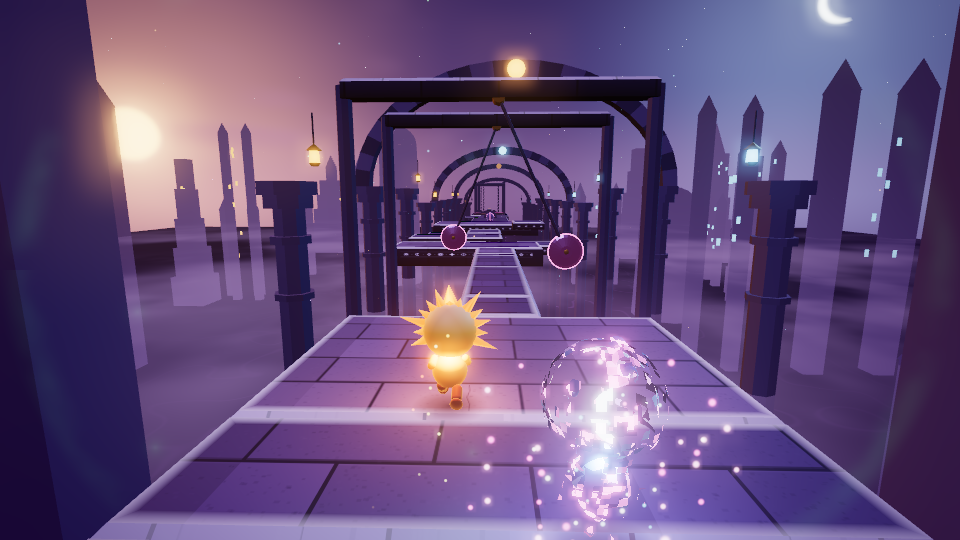
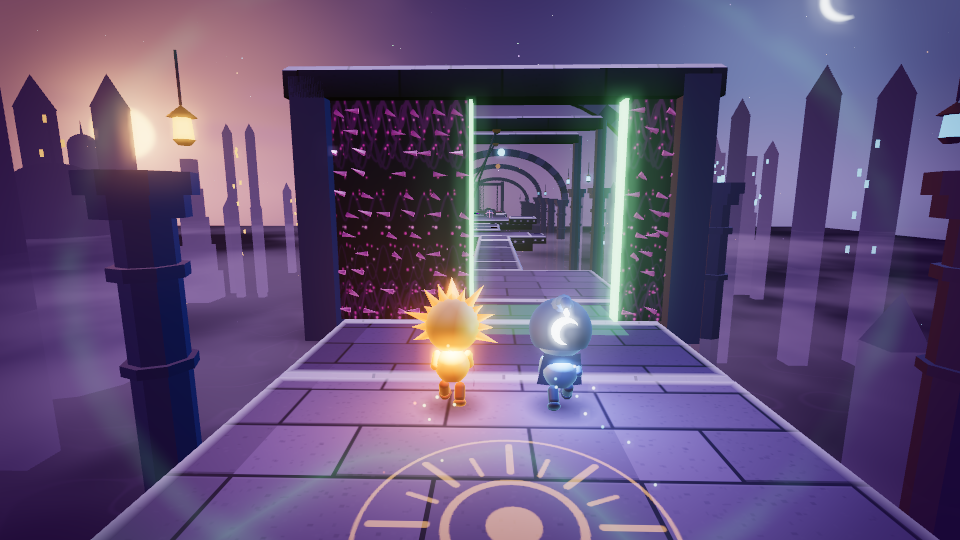
Runner 3D: CONTRACT notes firstFrom and the mantle; curtain screenshots shot before the players pass it

diff --git a/tools/r3d-shots.js b/tools/r3d-shots.js
@@ -49,7 +49,7 @@ const SHOTS = [
 ];
 // two shots per section kind: its easy intro and a hard instance past z 900 (the demo starts on its run-up)
 const SEC_KINDS = ['gaps', 'steps', 'thorns', 'pools', 'tilt', 'stones', 'crumble', 'sweeper', 'eclipse', 'beams', 'pendulum', 'carousel', 'gate', 'orbs'];
-for (const k of SEC_KINDS) SHOTS.push(['kind-' + k, `seed=7&kind=${k}`, 70], ['hard-' + k, `seed=7&kind=${k}&after=900`, 70]);
+for (const k of SEC_KINDS) { const n = k === 'gate' ? 35 : 70; SHOTS.push(['kind-' + k, `seed=7&kind=${k}`, n], ['hard-' + k, `seed=7&kind=${k}&after=900`, n]); }   // the curtain hides once passed: shoot it earlier
 const want = process.argv.slice(2);
 const list = want.length ? SHOTS.filter(s => want.some(w => s[0].includes(w))) : SHOTS;
 const extraKinds = (process.env.KINDS || '').split(',').filter(Boolean);

diff --git a/shared/runner3d.js b/shared/runner3d.js
@@ -31,6 +31,10 @@
 //   per kind are listed in KIND_DOC after "pose:". tick may be fractional (smooth drawing of
 //   clocked kinds); stateful kinds read S.o[i] (rest pose when it is not in the window).
 // trig(a) -> [sin a, cos a] with the same polynomial the sim uses (any a in radians).
+// firstFrom(L, z) -> the first object index whose footprint may reach z (a binary search on
+//   L.zmx): scan from there while objs[i].z0 is below your far end to visit the objects near z.
+// No lead cap: nothing stops a player holding forward. P3.mantle: a standing player who walks into
+//   a ledge up to that high hops up onto it.
 // =======================================================================================
 
 export const SOL = 0, LUNA = 1, DRAW = 2;
